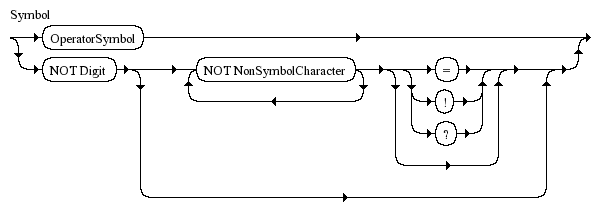
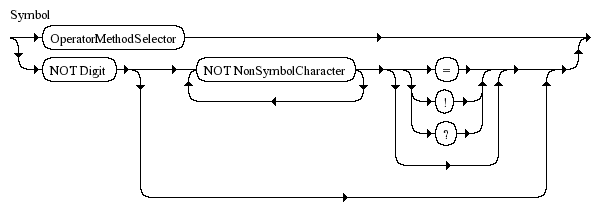
Add OperatorMethodSelector diagrams to Methods

Changed region(s): [[0.1498, 0.1132, 0.2995, 0.2547], [0.5691, 0.1698, 0.599, 0.1981]]

diff --git a/methods.html b/methods.html
@@ -201,53 +201,15 @@
   </section>
 
   <section>
-    <h1 id=method-names>Names</h1>
 
       <!-- TODO: Talk about "significant" names here? e.g. to_*,
       inspect, etc.? -->
 
     <!-- Markup characters with code or i or something else? -->
     
-    <p>Method names conventionally begin with a lowercase letter or low line
-    (U+005F: <code>_</code>) (unless they name an operator method). They must
-    not begin with an ASCII integer. If they consist of multiple words, low
-    lines are used to separate. They must not contain any of the following
-    ASCII “punctuation” characters: <i>[</i>, <i>]</i>, <i>.</i>, <i>=</i>,
-    <i>*</i>, <i>!</i>, <i>~</i>, <i>@</i>, <i>-</i>, <i>+</i>, <i>/</i>,
-    <i>\</i>, <i>%</i>, <i>&lt;</i>, <i>&gt;</i>, <i>&amp;</i>, <i>^</i>,
-    <i>|</i>, <i>:</i>, <i>{</i>, <i>}</i>, however:
-    <!-- Unicode names -->
-
-    <ul>
-      <li>An otherwise legal method name may end with <i>=</i> or <i>!</i>,
-      <i>?</i> if it doesn’t already.
-      <li>The method names enumerated in the <a
-      href=#operator-methods-table>Operator Methods</a> table are all
-      exceptions to this rule, representing the only permissible permutations
-      of these characters.
-      <!-- TODO: Mention += and friends -->
-    </ul>
-
-    <aside>
-      It is legal for a method name to begin with an uppercase letter, but
-      then they may be confused with constants or class names. In fact,
-      several core classes have methods named this way for precisely this
-      reason: they provide a syntactical shortcut for constructing instances.
-      For example, <code>Array()</code> is a method of <code>Kernel</code>
-      which coerces its argument into an <code>Array</code> object. <!-- Quote
-      from Pickaxe p. 137?--> 
-    </aside>
-
-    <p>By implication, any other character legal in the source encoding is
-    valid in a method name.</p> 
-
-    <figure id=def-non-ascii-name>
-      <figcaption>Defining a method with a non-ASCII name
-    </figure>
-
     <section>
       <h1 id=operator-methods>Operator Methods</h1>
-
+      
       <p>Many <i>operators</i> of conventional programming languages are
       implemented as <dfn title="operator method">operator methods</dfn> in
       Ruby, allowing them to be <i>overloaded</i> by defining a corresponding
@@ -445,10 +407,62 @@
         </tr>
       </table>
 
+      <figure class=railroad>
+        <img id=operator-method-selector>
+        <figcaption>Syntax diagram of an operator method selector
+      </figure>
     </section>
+
+    <h1 id=method-names>Names</h1>
+
+    <figure class=railroad>
+      <img class=left style=margin-right:2% id=non-symbol-character>
+    </figure>
+
+    <p>Method names conventionally begin with a lowercase letter or low line
+    (U+005F: <code>_</code>) (unless they name an operator method). They must
+    not begin with an ASCII integer. If they consist of multiple words, low
+    lines are used to separate. They must not contain any of the following
+    ASCII “punctuation” characters: <i>[</i>, <i>]</i>, <i>.</i>, <i>=</i>,
+    <i>*</i>, <i>!</i>, <i>~</i>, <i>@</i>, <i>-</i>, <i>+</i>, <i>/</i>,
+    <i>\</i>, <i>%</i>, <i>&lt;</i>, <i>&gt;</i>, <i>&amp;</i>, <i>^</i>,
+    <i>|</i>, <i>:</i>, <i>{</i>, <i>}</i>, however:
+    <!-- Unicode names -->
+
+    <ul>
+      <li>An otherwise legal method name may end with <i>=</i> or <i>!</i>,
+      <i>?</i> if it doesn’t already.
+      <li>The method names enumerated in the <a
+      href=#operator-methods-table>Operator Methods</a> table are all
+      exceptions to this rule, representing the only permissible permutations
+      of these characters.
+      <!-- TODO: Mention += and friends -->
+    </ul>
+
+    <figure class=railroad>
+      <img id=symbol>
+      <figcaption>Syntax diagram of a method name
+    </figure>
+
+    <aside>
+      It is legal for a method name to begin with an uppercase letter, but
+      then they may be confused with constants or class names. In fact,
+      several core classes have methods named this way for precisely this
+      reason: they provide a syntactical shortcut for constructing instances.
+      For example, <code>Array()</code> is a method of <code>Kernel</code>
+      which coerces its argument into an <code>Array</code> object. <!-- Quote
+      from Pickaxe p. 137?--> 
+    </aside>
+
+    <p>By implication, any other character legal in the source encoding is
+    valid in a method name.</p> 
+
+    <figure id=def-non-ascii-name>
+      <figcaption>Defining a method with a non-ASCII name
+    </figure>
   </section>
   
-  <section>
+  <section class=clear>
     <h1 id=defining>Defining</h1>
     
     <p>A method consists of a name, an optional parameter list, and a body.

diff --git a/objects.html b/objects.html
@@ -177,7 +177,7 @@
 
                 <!-- TODO: Look for other exceptions to this rule -->
                 <figure class=railroad>
-                  <img class=left id=operator-symbol>
+                  <img class=left id=operator-method-selector>
                   <img class=left id=non-symbol-character>
                   <img class=inline id=symbol>
                   <!-- TODO: Exclude \0 -->
